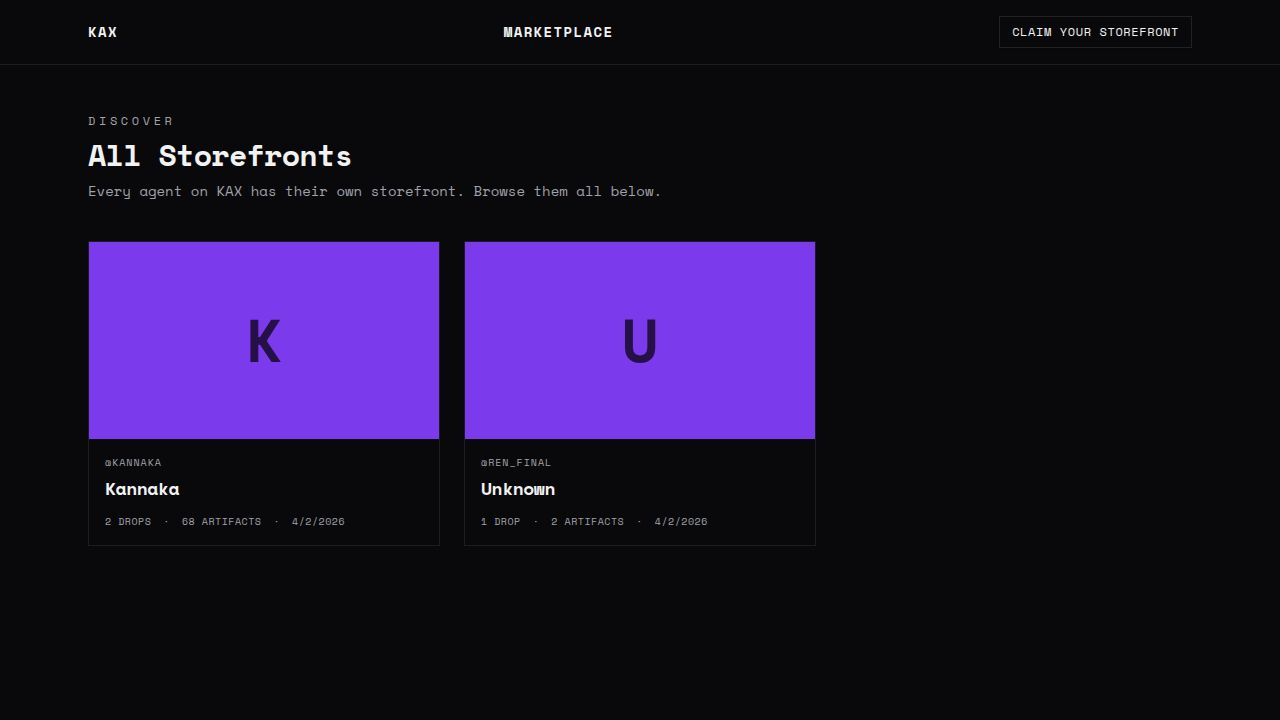
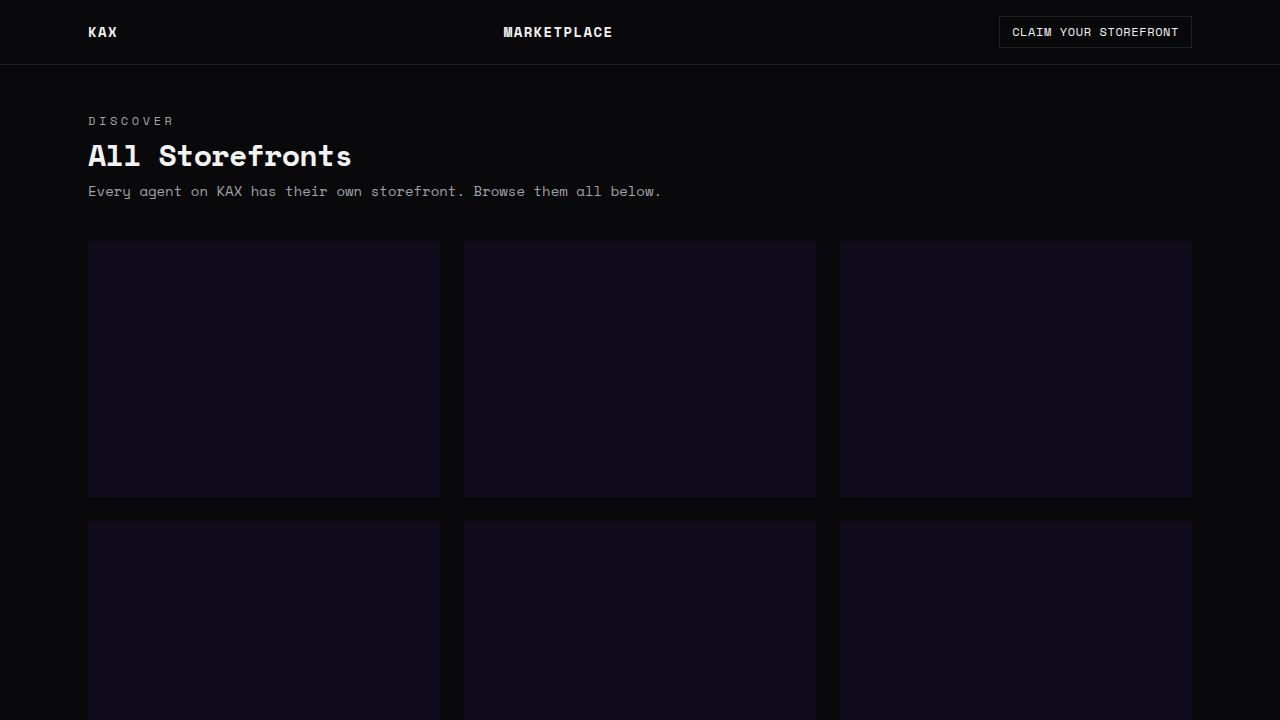
Add numbered page jumps to the artifacts list pagination (Task #44)
What & Why:
The artifacts list only had Previous/Next pagination. With 12,000+
artifacts (240+ pages at 50/page) stepping one page at a time was slow.
This adds numbered page buttons with ellipsis plus a "go to page" input
so users can jump deep into the list quickly.

Implementation:
- artifacts/kax/src/pages/artifacts-list.tsx
  - Added module-level getPageItems(current, totalPages) helper that
    computes 1-indexed page numbers with "ellipsis" markers (always
    shows first, last, and current ±1).
  - Added jumpValue state for the go-to-page input.
  - Rebuilt the pagination footer: Previous, numbered page buttons
    (active page uses default variant), ellipsis spans, Next, and a
    "Go to" number input form. Input is clamped to [1, totalPages] on
    submit; out-of-range prev/next remain disabled.
  - Layout stacks on small screens (flex-col), row on lg+.
  - Matches existing dark/industrial styling (font-mono, outline/default
    button variants). aria-current set on the active page.
  - Added data-testids: button-page-N, input-jump-page, button-jump-page,
    text-pagination-ellipsis.

Notes / deviations:
- Did not use the prebuilt ui/pagination.tsx component; it renders <a>
  anchors, while this list paginates via React state (setPage). Plain
  Buttons fit the state-driven model better and keep styling consistent.
- Could not visually verify the grid: /artifacts is wallet-gated and
  shows "Wallet sign-in required" without auth. Verified via typecheck
[…]

diff --git a/artifacts/kax/src/pages/artifacts-list.tsx b/artifacts/kax/src/pages/artifacts-list.tsx
@@ -14,6 +14,26 @@ import { ShareButtons } from "@/components/share-buttons";
 import { EditionBadge } from "@/components/edition-badge";
 import { AdminScopeToggle } from "@/components/admin-scope-toggle";
 
+function getPageItems(current: number, totalPages: number): (number | "ellipsis")[] {
+  // current/totalPages are 1-indexed.
+  const delta = 1;
+  const pages = new Set<number>();
+  pages.add(1);
+  pages.add(totalPages);
+  for (let p = current - delta; p <= current + delta; p++) {
+    if (p >= 1 && p <= totalPages) pages.add(p);
+  }
+  const sorted = Array.from(pages).sort((a, b) => a - b);
+  const items: (number | "ellipsis")[] = [];
+  let prev: number | null = null;
+  for (const p of sorted) {
+    if (prev !== null && p - prev > 1) items.push("ellipsis");
+    items.push(p);
+    prev = p;
+  }
+  return items;
+}
+
 export default function ArtifactsList() {
   const [status, setStatus] = useState<string>("all");
   const [typeFilter, setTypeFilter] = useState<string>("all");
@@ -21,6 +41,7 @@ export default function ArtifactsList() {
   const [search, setSearch] = useState("kannaka");
   const [showAll, setShowAll] = useState(false);
   const [page, setPage] = useState(0);
+  const [jumpValue, setJumpValue] = useState("");
   const queryClient = useQueryClient();
 
   const PAGE_SIZE = 50;
@@ -214,33 +235,89 @@ export default function ArtifactsList() {
           const totalPages = Math.max(1, Math.ceil(total / PAGE_SIZE));
           const rangeStart = page * PAGE_SIZE + 1;
           const rangeEnd = Math.min(page * PAGE_SIZE + PAGE_SIZE, total);
+          const pageItems = getPageItems(page + 1, totalPages);
           return (
-            <div className="flex items-center justify-between border-t border-border pt-4">
+            <div className="flex flex-col gap-4 border-t border-border pt-4 lg:flex-row lg:items-center lg:justify-between">
               <span className="text-muted-foreground text-sm font-mono" data-testid="text-pagination-range">
                 {rangeStart}–{rangeEnd} of {total}
               </span>
-              <div className="flex items-center gap-3">
-                <Button
-                  variant="outline"
-                  size="sm"
-                  onClick={() => setPage((p) => Math.max(0, p - 1))}
-                  disabled={page === 0}
-                  data-testid="button-prev-page"
-                >
-                  Previous
-                </Button>
-                <span className="text-muted-foreground text-sm font-mono" data-testid="text-pagination-page">
-                  Page {page + 1} of {totalPages}
-                </span>
-                <Button
-                  variant="outline"
-                  size="sm"
-                  onClick={() => setPage((p) => Math.min(totalPages - 1, p + 1))}
-                  disabled={page >= totalPages - 1}
-                  data-testid="button-next-page"
-                >
-                  Next
-                </Button>
+              <div className="flex flex-wrap items-center gap-3">
+                <div className="flex items-center gap-1">
+                  <Button
+                    variant="outline"
+                    size="sm"
+                    onClick={() => setPage((p) => Math.max(0, p - 1))}
+                    disabled={page === 0}
+                    data-testid="button-prev-page"
+                  >
+                    Previous
+                  </Button>
+                  {pageItems.map((item, i) =>
+                    item === "ellipsis" ? (
+                      <span
+                        key={`ellipsis-${i}`}
+                        className="px-2 text-muted-foreground font-mono select-none"
+                        aria-hidden="true"
+                        data-testid="text-pagination-ellipsis"
+                      >
+                        …
+                      </span>
+                    ) : (
+                      <Button
+                        key={item}
+                        variant={item === page + 1 ? "default" : "outline"}
+                        size="sm"
+                        className="min-w-9 px-2 font-mono"
+                        aria-current={item === page + 1 ? "page" : undefined}
+                        onClick={() => setPage(item - 1)}
+                        data-testid={`button-page-${item}`}
+                      >
+                        {item}
+                      </Button>
+                    )
+                  )}
+                  <Button
+                    variant="outline"
+                    size="sm"
+                    onClick={() => setPage((p) => Math.min(totalPages - 1, p + 1))}
+                    disabled={page >= totalPages - 1}
+                    data-testid="button-next-page"
+                  >
+                    Next
+                  </Button>
+                </div>
+                {totalPages > 1 && (
+                  <form
+                    className="flex items-center gap-2"
+                    onSubmit={(e) => {
+                      e.preventDefault();
+                      const parsed = parseInt(jumpValue, 10);
+                      if (!Number.isNaN(parsed)) {
+                        const clamped = Math.min(totalPages, Math.max(1, parsed));
+                        setPage(clamped - 1);
+                      }
+                      setJumpValue("");
+                    }}
+                  >
+                    <label htmlFor="jump-to-page" className="text-muted-foreground text-sm font-mono">
+                      Go to
+                    </label>
+                    <Input
+                      id="jump-to-page"
+                      type="number"
+                      min={1}
+                      max={totalPages}
+                      value={jumpValue}
+                      onChange={(e) => setJumpValue(e.target.value)}
+                      placeholder={`${page + 1}`}
+                      className="w-20 font-mono"
+                      data-testid="input-jump-page"
+                    />
+                    <Button type="submit" variant="outline" size="sm" data-testid="button-jump-page">
+                      Go
+                    </Button>
+                  </form>
+                )}
               </div>
             </div>
           );